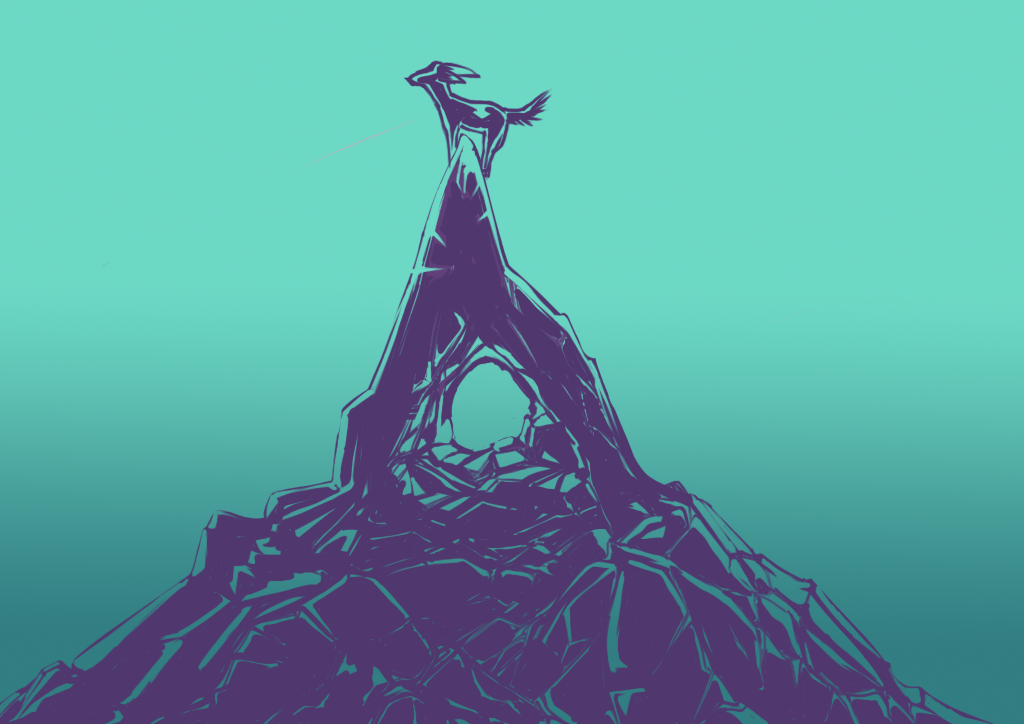
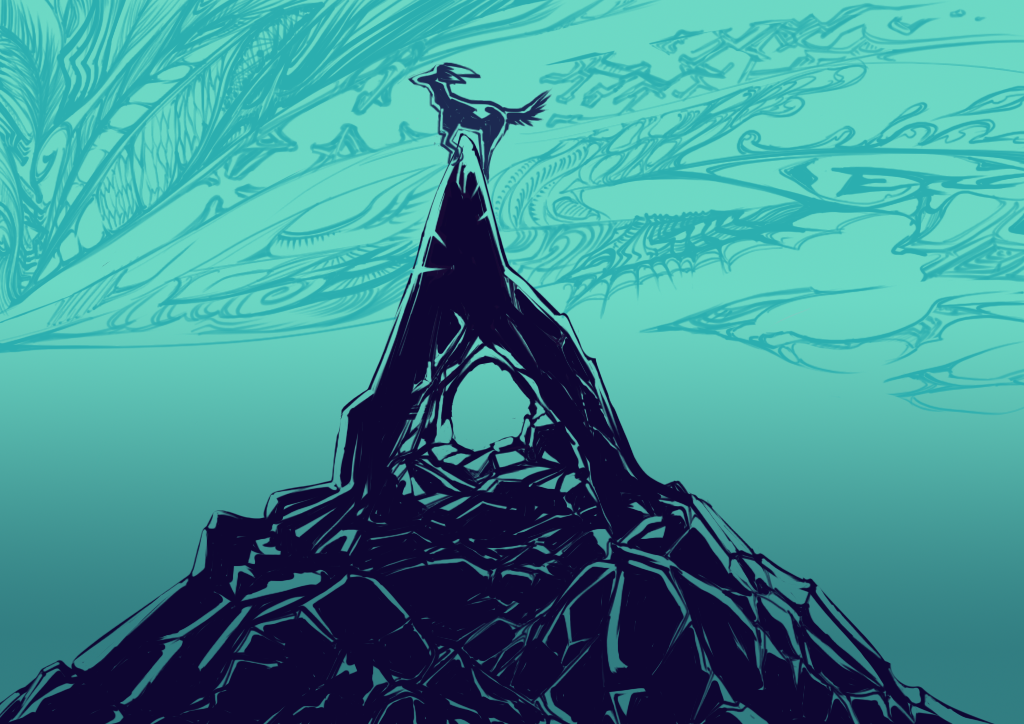
主にトップページの変更

diff --git a/app/assets/stylesheets/bmframework/components/_hero.sass b/app/assets/stylesheets/bmframework/components/_hero.sass
@@ -1,7 +1,7 @@
 
 
 .hs-m--hero
-  background-image: image-url('has.jpg')
+  background-image: image-url('HAS.png')
   display: flex
   flex-direction: column
   flex: 1
@@ -15,7 +15,7 @@
   position: relative
 
 .hs-hero--header
-  background-color: rgba(255,255,255,0.4)
+  background-color: rgba(255,255,255,0.3)
   margin: 0
   padding: 2vh
 
@@ -53,7 +53,7 @@
   text-shadow: 1px 1px 2px #80a7a3
 
 .topbox
-  margin: 30vh
+  margin: auto
 
 .has-catchphrase h1
   color: #fff
@@ -64,11 +64,23 @@
 .has-setumei
   margin: auto
   margin-top: 35px
+  margin-bottom: 35px
 
 .has-setumei p
   color: #fff
   font-family: 'Tahoma',sans-serif
   font-size: 5vh
+
+.button-area2
+  margin: auto
+  text-align: center
+
+
+.button.ui.inverted.button
+    font-size: 4vh
+    font-family: 'Tahoma',sans-serif
+    width: auto
+    height: 10vh
 
 
 .hs-m--yagi
@@ -89,7 +101,7 @@
   font-size: 5vh
   margin: 0 25vh 0vh 25vh
   text-align: center
-  color: #000
+  color: #747474
 
 .hs-m--yagi-exam
   margin: 0
@@ -104,5 +116,5 @@
 .learnmore-exam p
   font-family: 'Tahoma',sans-serif
   font-size: 4vh
-  color: #000
+  color: #546a68
   text-align: center
